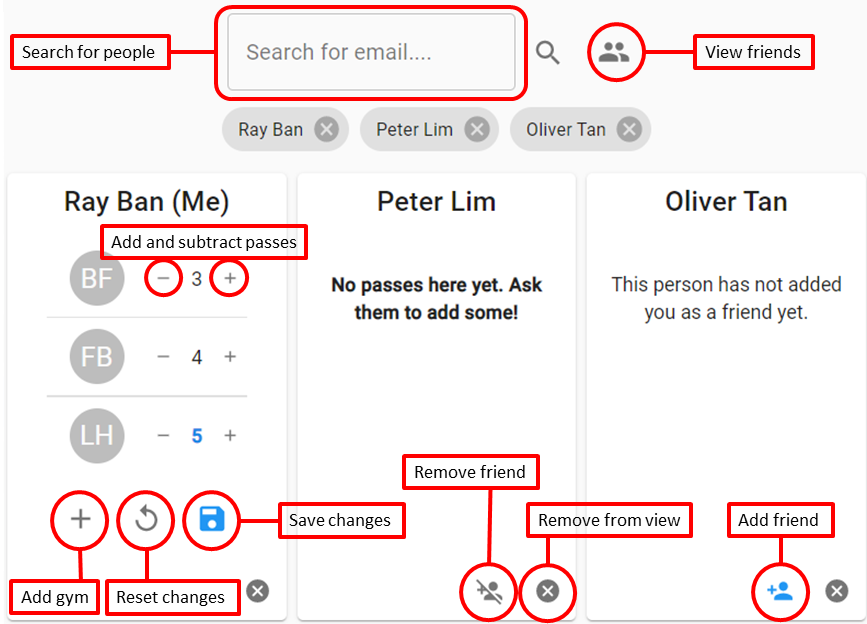
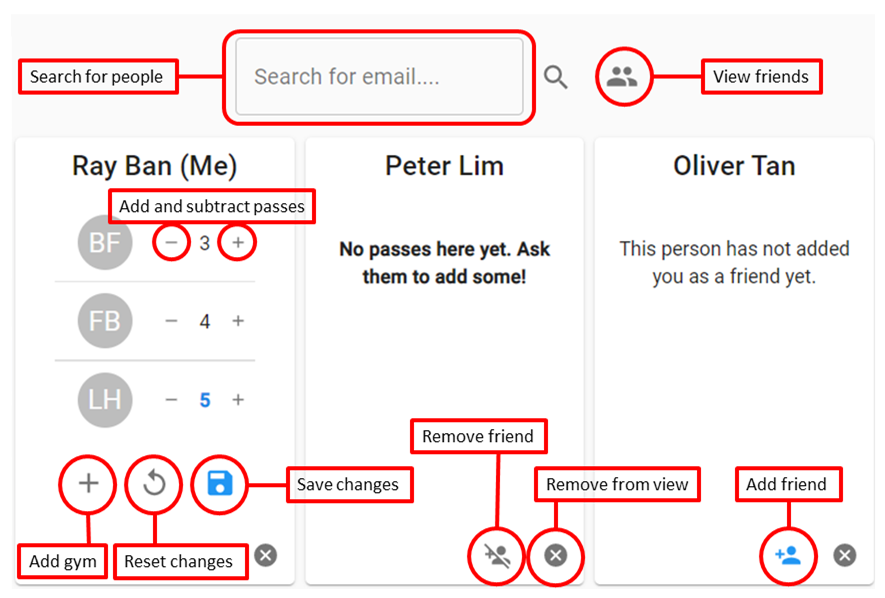
Cleaned up code, updated guide image, sort gyms in add gym dialog, added 'back to login' link on password reset page

diff --git a/functions/src/graphql/index.js b/functions/src/graphql/index.js
@@ -1,21 +1,42 @@
+import { ApolloServer } from 'apollo-server-cloud-functions'
+import * as admin from "firebase-admin"
 import * as functions from 'firebase-functions'
-import gqlServer from './server'
+import resolvers from './resolvers'
+import schema from './schema'
 
-const server = gqlServer()
+async function getUidFromToken(token) {
+    if (!token) throw new Error('No token received.')
+    const idToken = token.split('Bearer ')[1]
+    const decodedToken = await admin
+        .auth()
+        .verifyIdToken(idToken)
+    return decodedToken.uid
+}
 
-// /**
-//  * Handle request from calling /graphql endpoint
-//  *
-//  * @param {functions.https.Request} req - Express HTTP Request
-//  * @param {object} res - Express HTTP Response
-//  * @returns {Promise} Resolves after handling request
-//  */
-// export async function graphqlRequest(req, res) {
-//   console.log('request received', { body: req.body })
-//   // Write response to request to end function execution
-//   res.writeHead(200, { 'Content-Type': 'text/html; charset=utf-8' })
-//   res.end('Hello from graphql')
-// }
+function gqlServer() {
+    const apolloServer = new ApolloServer({
+        typeDefs: schema,
+        resolvers,
+        context: async ({ req }) => {
+            // Get the user token from the headers.
+            const token = req.headers.authorization || ''
+
+            // try to retrieve a user with the token
+            return getUidFromToken(token).then(uid => ({ uid }))
+        },
+
+        // Enable graphiql gui locally
+        // introspection: true,
+        // playground: true
+    })
+
+    return apolloServer.createHandler({
+        cors: {
+            origin: true,
+            credentials: true,
+        },
+    })
+}
 
 /**
  * Cloud Function triggered by HTTP request
@@ -25,4 +46,4 @@ const server = gqlServer()
  * @name graphql
  * @type {functions.CloudFunction}
  */
-export default functions.region('asia-east2').https.onRequest(server)
+export default functions.region('asia-east2').https.onRequest(gqlServer())

diff --git a/src/routes/Home/components/UserSearch/components/ViewFriends/ViewFriends.jsx b/src/routes/Home/components/UserSearch/components/ViewFriends/ViewFriends.jsx
@@ -32,6 +32,7 @@ function ViewFriends({ handleViewFriends, loggedInUser, userSearchList }) {
 
 	const [friendsList, setFriendsList] = useState({})
 
+	// Add self to friend list for easy viewing
 	useEffect(() => {
 		setFriendsList(friendsList => ({
 			...friendsList,
@@ -44,6 +45,7 @@ function ViewFriends({ handleViewFriends, loggedInUser, userSearchList }) {
 
 	const [friendsInRedux, setFriendsInRedux] = useState(loggedInUser.friends)
 
+	// Populate friend list with existing friends
 	useEffect(() => {
 		if (friendsInRedux.length > 0) {
 			setLoading(true)
@@ -78,39 +80,7 @@ function ViewFriends({ handleViewFriends, loggedInUser, userSearchList }) {
 		}
 	}, [apolloClient, friendsInRedux, showError])
 
-	// useEffect(() => {
-	// 	const friendsToAdd = {}
-	// 	friendsData && friendsData.users.forEach(friend => {
-	// 		friendsToAdd[friend.uid] = {
-	// 			...friend,
-	// 			isSelected: false
-	// 		}
-	// 	})
-	// 	setFriendsList(friendsList => ({
-	// 		...friendsList,
-	// 		...friendsToAdd
-	// 	}))
-	// }, [friendsData])
-
-	// useEffect(() => {
-	// 	if (friendsInRedux.length > 0) {
-	// 		// firestore.collection(USERS_PUBLIC_COLLECTION).where(firebase.firestore.FieldPath.documentId(), 'in', friendsInRedux)
-	// 		// 	.get()
-	// 		// 	.then(results => {
-	// 		// 		results.forEach(result => {
-	// 		// 			const userPublicData = result.data()
-	// 		// 			setFriendsList(friendsList => ({
-	// 		// 				...friendsList,
-	// 		// 				[userPublicData.uid]: {
-	// 		// 					...userPublicData,
-	// 		// 					isSelected: false
-	// 		// 				}
-	// 		// 			}))
-	// 		// 		})
-	// 		// 	})
-	// 	}
-	// }, [friendsInRedux, firebase.firestore.FieldPath, firestore, firebase])
-
+	// Update friend list when user search list changes (whether checked/unchecked and newly added friends)
 	useEffect(() => {
 		setFriendsList(friendsList => {
 			// Add new friends using details from userSearchList

diff --git a/src/routes/Home/components/HomePage/HomePage.jsx b/src/routes/Home/components/HomePage/HomePage.jsx
@@ -1,13 +1,12 @@
 import Grid from '@material-ui/core/Grid'
 import { makeStyles } from '@material-ui/core/styles'
 import LoadingSpinner from 'components/LoadingSpinner'
-import { GYMS_COLLECTION, GYMS_DOCUMENT_SINGAPORE, USERS_COLLECTION, USERS_PUBLIC_COLLECTION } from 'constants/firebasePaths'
+import { GYMS_COLLECTION, GYMS_DOCUMENT_SINGAPORE, USERS_COLLECTION } from 'constants/firebasePaths'
 import { useNotifications } from 'modules/notification'
 import React, { useEffect, useState } from 'react'
 import { useDispatch, useSelector } from 'react-redux'
 import {
 	isLoaded,
-	useFirebase,
 	useFirestore,
 	useFirestoreConnect
 } from 'react-redux-firebase'
@@ -29,10 +28,6 @@ function useHome() {
 			collection: USERS_COLLECTION,
 			doc: auth.uid
 		},
-		// {
-		// 	collection: USERS_PUBLIC_COLLECTION,
-		// 	doc: auth.uid
-		// },
 		{
 			collection: GYMS_COLLECTION,
 			doc: GYMS_DOCUMENT_SINGAPORE
@@ -41,10 +36,9 @@ function useHome() {
 
 	// // Get user from redux state
 	const users = useSelector(({ firestore: { data: { users } } }) => users)
-	const usersPublic = useSelector(({ firestore: { data: { users_public } } }) => users) // eslint-disable-line camelcase
 	const gyms = useSelector(({ firestore: { data: { gyms } } }) => gyms)
 
-	return { users, gyms, usersPublic, uid: auth.uid }
+	return { users, gyms, uid: auth.uid }
 }
 
 function Home() {
@@ -57,7 +51,6 @@ function Home() {
 	const {
 		uid,
 		users,
-		usersPublic,
 		gyms
 	} = useHome()
 
@@ -91,7 +84,7 @@ function Home() {
 		}, 500)
 	}, [dispatch, firestore, uid, showError])
 
-	if (loading || !isLoaded(users) || !isLoaded(gyms) || !users || !gyms || !gyms[GYMS_DOCUMENT_SINGAPORE] || !users[uid] || !usersPublic || !usersPublic[uid]) {
+	if (loading || !isLoaded(users) || !isLoaded(gyms) || !users || !gyms || !gyms[GYMS_DOCUMENT_SINGAPORE] || !users[uid]) {
 		return <LoadingSpinner />
 	}
 

diff --git a/src/routes/Signup/components/SignupPage/SignupPage.jsx b/src/routes/Signup/components/SignupPage/SignupPage.jsx
@@ -8,7 +8,7 @@ import { ABOUT_PATH, LOGIN_PATH } from 'constants/paths'
 import { useNotifications } from 'modules/notification'
 import SignupForm from '../SignupForm'
 import styles from './SignupPage.styles'
-import { USERS_COLLECTION, USERS_PUBLIC_COLLECTION } from 'constants/firebasePaths'
+import { USERS_COLLECTION } from 'constants/firebasePaths'
 
 const useStyles = makeStyles(styles)
 
@@ -40,7 +40,6 @@ function SignupPage() {
     try {
       const { user } = await firebase.auth().createUserWithEmailAndPassword(newUser.email, form.password)
       await generateUserDocument(user, newUser)
-      // await generateUserPublicDocument(user, newUser)
     } catch (error) {
       showError(error.message)
     }
@@ -60,22 +59,6 @@ function SignupPage() {
       throw new Error('User already exists in database.')
     }
   }
-
-  // async function generateUserPublicDocument(user, userData) {
-  //   if (!user) return
-  //   const userRef = firestore.doc(`${USERS_PUBLIC_COLLECTION}/${user.uid}`)
-  //   const snapshot = await userRef.get()
-
-  //   if (!snapshot.exists) {
-  //     await userRef.set({ 
-  //       firstName: userData.firstName,
-  //       lastName: userData.lastName,
-  //       email: userData.email, 
-  //       uid: user.uid })
-  //   } else {
-  //     throw new Error('User already exists in database.')
-  //   }
-  // }
 
   return (
     <div className={classes.root}>

diff --git a/src/routes/Home/components/UserSearch/UserSearch.jsx b/src/routes/Home/components/UserSearch/UserSearch.jsx
@@ -1,4 +1,5 @@
 import { gql, useApolloClient } from '@apollo/client'
+import CircularProgress from '@material-ui/core/CircularProgress'
 import Grid from '@material-ui/core/Grid'
 import IconButton from '@material-ui/core/IconButton'
 import { makeStyles } from '@material-ui/core/styles'
@@ -8,18 +9,15 @@ import { useNotifications } from 'modules/notification'
 import PropTypes from 'prop-types'
 import React, { useState } from 'react'
 import { useDispatch } from 'react-redux'
-import { useFirestore } from 'react-redux-firebase'
 import User from '../../../../model/User'
 import { addUserToSearchList, removeUserFromSearchList } from '../../../../store/reducers/user'
 import ViewFriends from './components/ViewFriends'
 import styles from './UserSearch.styles'
-import CircularProgress from '@material-ui/core/CircularProgress'
 
 const useStyles = makeStyles(styles)
 
 function UserSearch({ userSearchList, loggedInUser }) {
 	const dispatch = useDispatch()
-	const firestore = useFirestore()
 	const classes = useStyles()
 	const { showError } = useNotifications()
 	const apolloClient = useApolloClient()

diff --git a/src/routes/ResetPassword/components/ResetPasswordForm/ResetPasswordForm.styles.js b/src/routes/ResetPassword/components/ResetPasswordForm/ResetPasswordForm.styles.js
@@ -1,12 +1,20 @@
 export default (theme) => ({
-  root: {
+  // root: {
+  //   ...theme.flexColumnCenter,
+  //   justifyContent: 'flex-start',
+  //   flexGrow: 1,
+  //   height: '100%',
+  //   width: '100%',
+  //   margin: '.2rem',
+  //   fontSize: '1.4rem'
+  // },
+  panel: {
     ...theme.flexColumnCenter,
-    justifyContent: 'flex-start',
+    justifyContent: 'center',
     flexGrow: 1,
-    height: '100%',
-    width: '100%',
-    margin: '.2rem',
-    fontSize: '1.4rem'
+    padding: '1.25rem',
+    minWidth: '250px',
+    minHeight: '270px'
   },
   submit: {
     ...theme.flexColumnCenter,
@@ -16,5 +24,8 @@ export default (theme) => ({
     padding: '0.5rem',
     minWidth: '192px',
     marginTop: '0.5rem'
-  }
+  },
+  loginLink: {
+    fontSize: '1.2rem'
+  },
 })

diff --git a/src/routes/ResetPassword/components/ResetPasswordForm/ResetPasswordForm.jsx b/src/routes/ResetPassword/components/ResetPasswordForm/ResetPasswordForm.jsx
@@ -1,14 +1,13 @@
-import React from 'react'
-import PropTypes from 'prop-types'
-import { useForm } from 'react-hook-form'
+import Button from '@material-ui/core/Button'
+import { makeStyles } from '@material-ui/core/styles'
 import TextField from '@material-ui/core/TextField'
 import Typography from '@material-ui/core/Typography'
-
-import { makeStyles } from '@material-ui/core/styles'
-import Button from '@material-ui/core/Button'
+import PropTypes from 'prop-types'
+import React from 'react'
+import { useForm } from 'react-hook-form'
+import { useHistory } from 'react-router-dom'
 import { validateEmail } from 'utils/form'
 import styles from './ResetPasswordForm.styles'
-import { useHistory } from 'react-router-dom'
 
 const useStyles = makeStyles(styles)
 

diff --git a/src/routes/ResetPassword/components/ResetPasswordPage/ResetPasswordPage.jsx b/src/routes/ResetPassword/components/ResetPasswordPage/ResetPasswordPage.jsx
@@ -1,8 +1,10 @@
 import Paper from '@material-ui/core/Paper'
 import { makeStyles } from '@material-ui/core/styles'
+import { LOGIN_PATH } from 'constants/paths'
 import { useNotifications } from 'modules/notification'
 import React from 'react'
 import { useFirebase } from 'react-redux-firebase'
+import { Link } from 'react-router-dom'
 import ResetPasswordForm from '../ResetPasswordForm'
 import styles from './ResetPasswordPage.styles'
 
@@ -29,6 +31,9 @@ function ResetPasswordPage() {
 			<Paper className={classes.panel}>
 				<ResetPasswordForm onSubmit={resetPassword} />
 			</Paper>
+			<Link className={classes.loginLink} to={LOGIN_PATH} data-test="login">
+				Back to Login
+      		</Link>
 		</div>
 	)
 }

diff --git a/src/routes/Home/components/AddGymDialog/AddGymDialog.jsx b/src/routes/Home/components/AddGymDialog/AddGymDialog.jsx
@@ -50,7 +50,7 @@ function AddGymDialog({ gymsToAdd, addGymFunction }) {
 				<DialogContent>
 					<List>
 						{
-							Object.keys(gymsToAdd).map(gymId => {
+							Object.keys(gymsToAdd).sort().map(gymId => {
 								return (
 									<ListItem key={`add-gym-list-${gymId}`} button onClick={() => handleSelect(gymId)} data-test={`add-gym-${gymId}`}>
 										<ListItemText primary={gymsToAdd[gymId].name} />

diff --git a/src/constants/firebasePaths.js b/src/constants/firebasePaths.js
@@ -1,5 +1,4 @@
 export const USERS_COLLECTION = 'users'
-export const USERS_PUBLIC_COLLECTION = 'users_public'
 export const GYMS_COLLECTION = 'gyms'
 export const FRIENDS_COLLECTION = 'friends'
 

diff --git a/src/routes/ResetPassword/components/ResetPasswordPage/ResetPasswordPage.styles.js b/src/routes/ResetPassword/components/ResetPasswordPage/ResetPasswordPage.styles.js
@@ -16,4 +16,8 @@ export default theme => ({
     minWidth: '250px',
     minHeight: '170px'
   },
+  loginLink: {
+    marginTop: '1rem',
+    fontSize: '1.2rem'
+  },
 })
